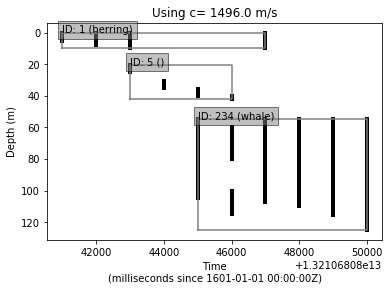
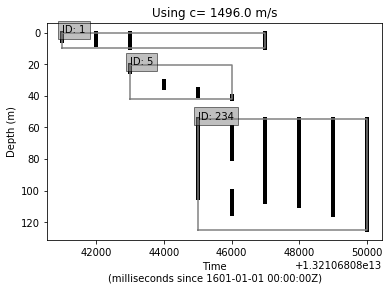
Add in support for multiple categorisations per region Remove Matlab example (will focus just on a python example)

diff --git a/demo_mask.py b/demo_mask.py
@@ -33,7 +33,6 @@ bb_lower = interp.variables['max_depth'][:]
 bb_left = interp.variables['start_time'][:]
 bb_right = interp.variables['end_time'][:]
 
-category = interp.variables['category'][:]
 region_id = interp.variables['id'][:]
 
 #close dataset
@@ -52,7 +51,7 @@ for i, junk in enumerate(bb_upper):
     plt.plot(np.array([bb_left[i], bb_right[i], bb_right[i], bb_left[i], bb_left[i]]), 
              np.array([bb_lower[i], bb_lower[i], bb_upper[i], bb_upper[i], bb_lower[i]]),
              color=(0.5, 0.5, 0.5))
-    plt.text(bb_left[i], bb_upper[i], 'ID: ' + str(region_id[i]) + ' (' + category[i] + ')', 
+    plt.text(bb_left[i], bb_upper[i], 'ID: ' + str(region_id[i]), 
              bbox=dict(facecolor=(0.5, 0.5, 0.5), alpha=0.5))
 plt.title('Using c= ' + str(c) + ' ' + c_units)
 ax = plt.gca()
